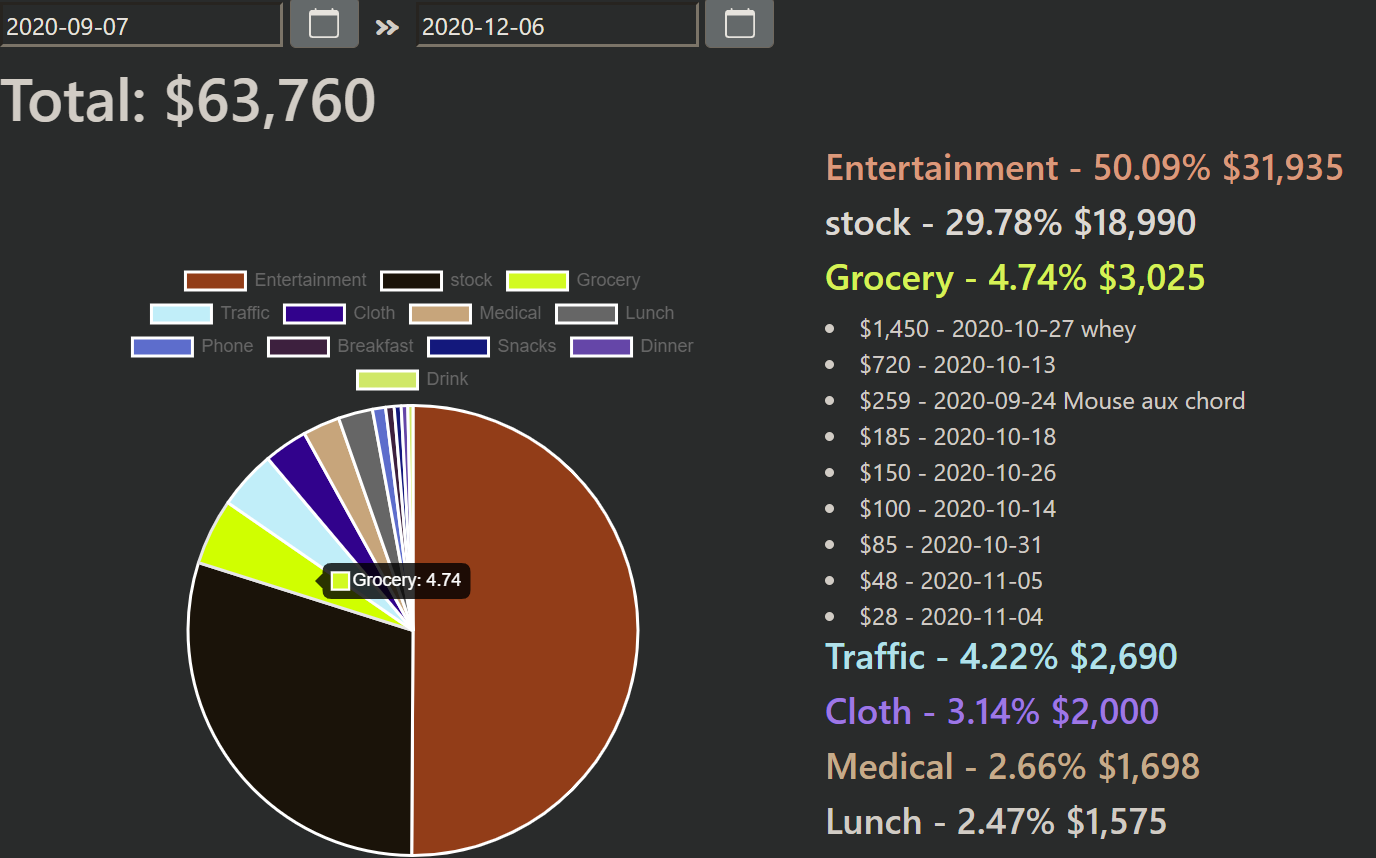
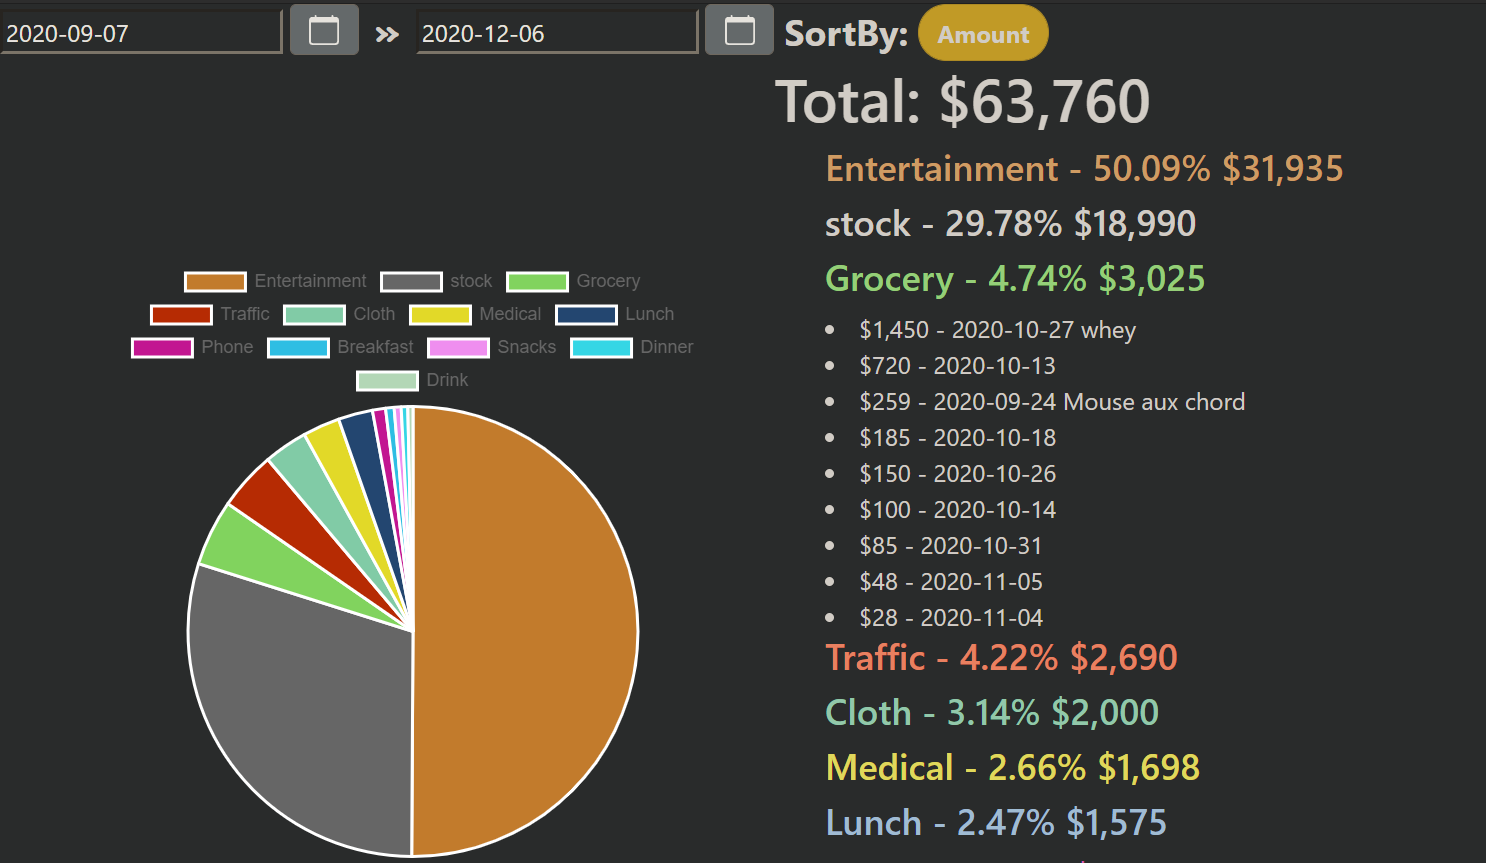
[Frontend/Backend #22] Add button for switching the sorting references

diff --git a/frontend/src/app.js b/frontend/src/app.js
@@ -42,7 +42,9 @@ new Vue({
             total: 0,
             start:  moment().add(-90, 'days').format('YYYY-MM-DD'),
             end: moment().add(0, 'days').format('YYYY-MM-DD'),
-            datacollection: {}
+            datacollection: {},
+            randomColorsArr: null,
+            entriesSortByDate: false
         }
     },
     apollo: {
@@ -50,8 +52,8 @@ new Vue({
         entriesWithinCategories() {
             return {
          query: gql`
-            query entriesWithinCategories($timeStartInput: String!, $timeEndInput: String!){
-                entriesWithinCategories(timeStartInput: $timeStartInput, timeEndInput: $timeEndInput) {
+            query entriesWithinCategories($timeStartInput: String!, $timeEndInput: String!, $entriesSortByDate: Boolean){
+                entriesWithinCategories(timeStartInput: $timeStartInput, timeEndInput: $timeEndInput, entriesSortByDate: $entriesSortByDate) {
                     categories {
                         name
                         sum
@@ -69,7 +71,8 @@ new Vue({
           variables () {
             return {
                 timeStartInput: this.start,
-                timeEndInput: this.end
+                timeEndInput: this.end,
+                entriesSortByDate: this.entriesSortByDate
             };
           },
           async result (result) {
@@ -78,24 +81,26 @@ new Vue({
 
             let categoryNames = this.categories.map(v => v.name);
             let categoryPercent = this.categories.map(v => v.percentage);
-            let randomColors = await this.randomColors(categoryNames.length);
 
-            this.categories = await this.categories.map((category, index) => {
+            if(this.randomColorsArr === null) {
+                this.randomColorsArr = await this.randomColors(categoryNames.length);
+                this.datacollection = {
+                    labels: categoryNames,
+                    datasets: [
+                        {
+                            label: 'Data One',
+                            backgroundColor: this.randomColorsArr,
+                            data: categoryPercent
+                        }
+                    ]
+                };
+            }
+
+            return this.categories = this.categories.map((category, index) => {
                 // Need to use Vue.set since Vue doesn't detect object property addition
-                Vue.set(category, 'color', randomColors[index]);
+                Vue.set(category, 'color', this.randomColorsArr[index]);
                 return category;
             });
-
-            return this.datacollection = {
-                labels: categoryNames,
-                datasets: [
-                    {
-                        label: 'Data One',
-                        backgroundColor: randomColors,
-                        data: categoryPercent
-                    }
-                ]
-            };
           }
         }}
     },

diff --git a/model/entryFunctions.js b/model/entryFunctions.js
@@ -4,7 +4,7 @@ const MongoClient = require('mongodb').MongoClient
 const { UserInputError } = require('apollo-server-koa');
 const moment = require('moment');
 
-const client  = new MongoClient("'mongodb://localhost:27017/", { useNewUrlParser: true, useUnifiedTopology: true  })
+const client  = new MongoClient("'mongodb://mongo:27017/", { useNewUrlParser: true, useUnifiedTopology: true  })
 let db  =  null;
 
 async function initDB() {
@@ -31,10 +31,17 @@ function closeDB() {
   }
 
 // Get the entries data from mongoDB and organize it.
-async function getCategorySummary(root, {timeStartInput, timeEndInput}) {
+async function getCategorySummary(root, {timeStartInput, timeEndInput, entriesSortByDate}) {
     // Set the time range, if the date format is wrong then get the previous 3 months
     let timeStart = moment(timeStartInput, 'YYYY-MM-DD', true).isValid() ? timeStartInput : moment().add(-90, 'days').toISOString();
     let timeEnd = moment(timeEndInput, 'YYYY-MM-DD', true).isValid() ?timeEndInput : moment().add(0, 'days').toISOString();
+
+    // Used for deciding sort by which column, amount by default
+    let sortByWhichColumn = "amount";
+    if(entriesSortByDate == 1) sortByWhichColumn = "date";
+
+    let sort = {};
+    sort[sortByWhichColumn] = -1;
 
     // Fetch entries from Mongo left join categories
     let categories = await db.collection('categories').aggregate([
@@ -54,7 +61,7 @@ async function getCategorySummary(root, {timeStartInput, timeEndInput}) {
                     },
                 },
                 { $project: { amount: 1, date: 1, descr: 1} },
-                { $sort: { amount: -1 } }]
+                { $sort: sort}]
             }
         },
     ]).toArray();
@@ -70,7 +77,7 @@ async function getCategorySummary(root, {timeStartInput, timeEndInput}) {
             return parseInt(sum) + parseInt(current);
         }, 0);
         return category
-    }).sort((a, b) => b.sum - a.sum);
+    }).sort((a, b) => b.sum - a.sum);   // Sort by sum desc
 
     // Sum up all the entries
     const total = await categories.map(x => x.sum).reduce((sum, current) => {

diff --git a/frontend/index.html b/frontend/index.html
@@ -11,10 +11,12 @@
         <b-form-datepicker button-only name="start" v-model="start" class="mb-2" />
     </div>
     <font face = "Comic sans MS" size = "5" style="float: left; font-weight:bold;">&nbsp;&raquo;&nbsp;</font>
-    <div>
+    <div style="float: left;">
         <input v-model="end" type="text" placeholder="YYYY-MM-DD" autocomplete="off" />
         <b-form-datepicker button-only name="end" v-model="end" class="mb-2" />
     </div>
+    <font size = "5" style="float: left; font-weight:bold;">&nbsp;SortBy:&nbsp;</font>
+    <b-button pill variant="warning" @click="entriesSortByDate = !entriesSortByDate" style="font-weight:bold;">{{ entriesSortByDate ? 'Date' : 'Amount' }}</b-button>
     <h1>Total: {{ total|toCurrency }}</h1>
     <h1 v-if="$apollo.loading">Loading...</h1>
     <div style="max-width: 600px; margin: 75px; float: left;">

diff --git a/graphql/entryType.js b/graphql/entryType.js
@@ -3,7 +3,7 @@ const { ApolloServer, gql } = require('apollo-server-koa');
 
 const typeDefs = gql`
     type Query  {
-        entriesWithinCategories(timeStartInput: String, timeEndInput: String): EntryCateSummary
+        entriesWithinCategories(timeStartInput: String, timeEndInput: String, entriesSortByDate: Boolean): EntryCateSummary
     }
 
     type EntryCateSummary {
